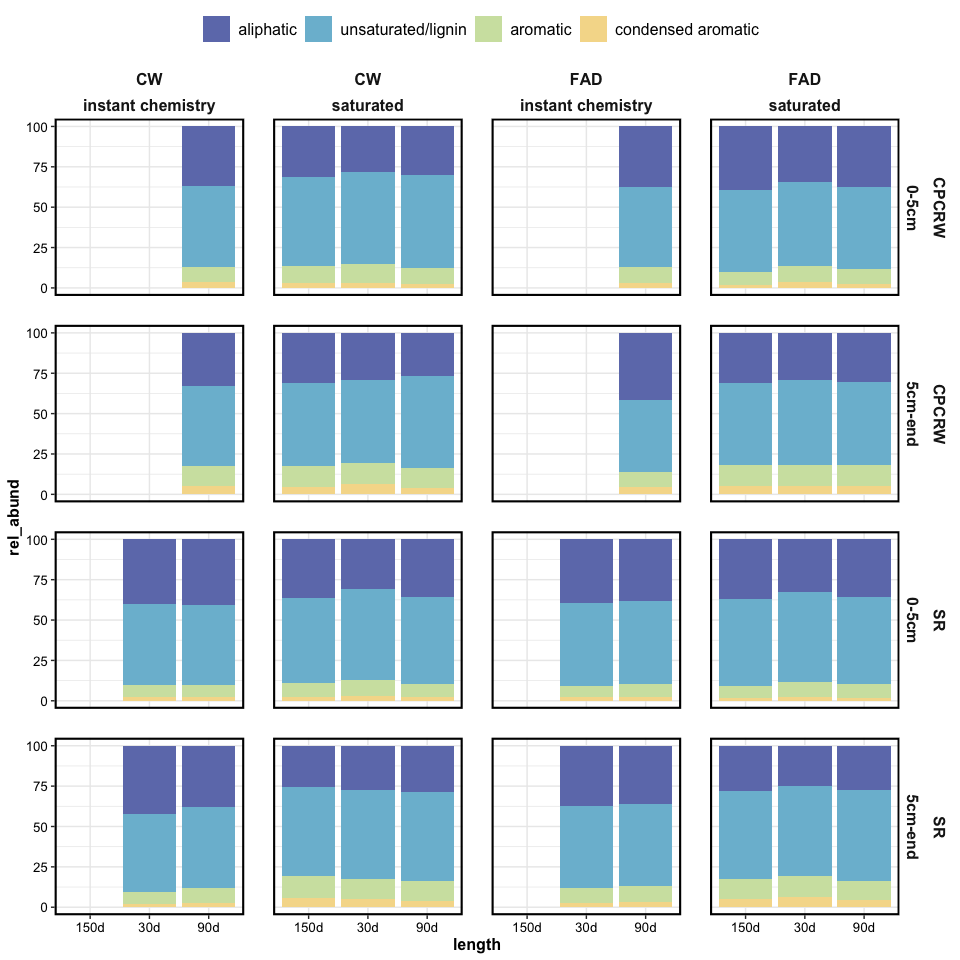
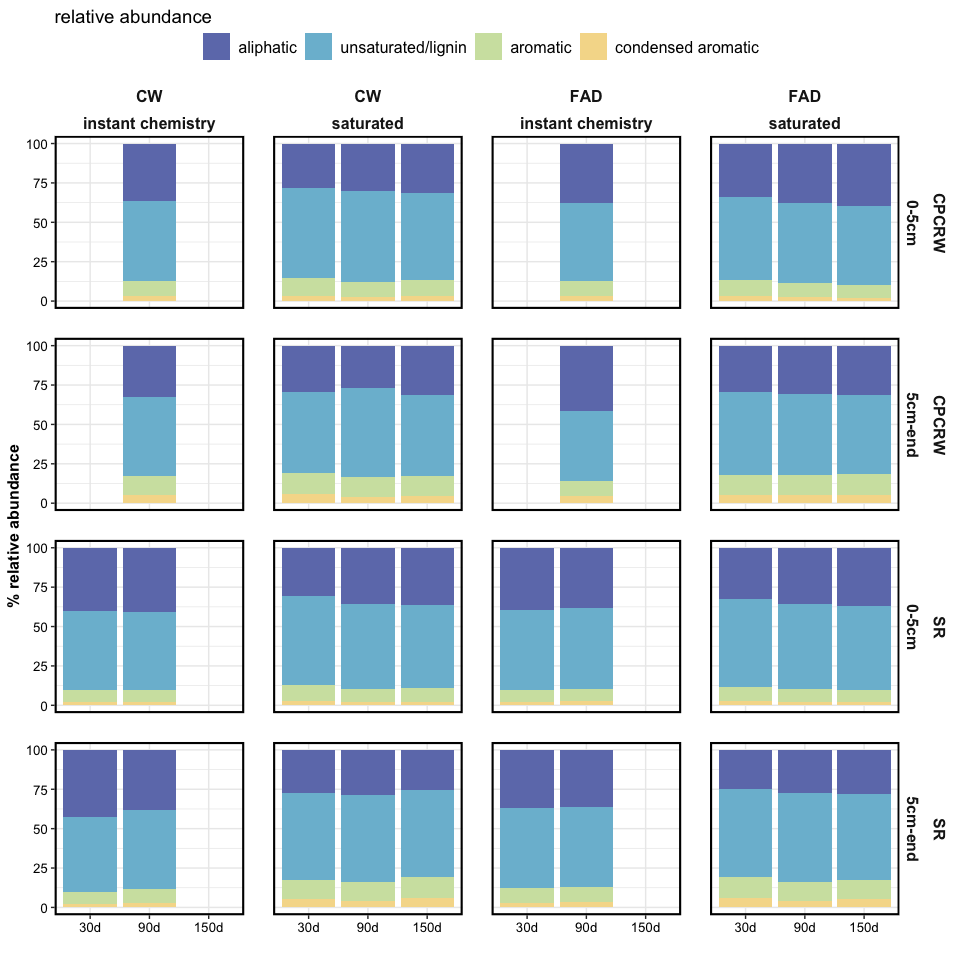
add tzero VK, PCA, perm, relabund

diff --git a/markdown/report_fticr.md b/markdown/report_fticr.md
@@ -3,6 +3,31 @@ FTICR
 
 This document contains results for FTICR-MS data.
 
+## TIME ZERO SAMPLES
+
+### Van Krevelen plots
+
+![](images-markdown-fticr/vk_tzero-1.png)<!-- -->
+
+### PCA
+
+![](images-markdown-fticr/pca_tzero-1.png)<!-- -->
+
+### PERMANOVA
+
+    #> # A tibble: 5 x 7
+    #>   term          df SumsOfSqs  MeanSqs F.Model     R2 p.value
+    #>   <chr>      <dbl>     <dbl>    <dbl>   <dbl>  <dbl>   <dbl>
+    #> 1 depth          1   0.00691  0.00691    4.24 0.241    0.026
+    #> 2 Site           1   0.00380  0.00380    2.33 0.132    0.109
+    #> 3 depth:Site     1   0.00172  0.00172    1.05 0.0598   0.376
+    #> 4 Residuals     10   0.0163   0.00163   NA    0.567   NA    
+    #> 5 Total         13   0.0287  NA         NA    1       NA
+
+### Relative abundance
+
+![](images-markdown-fticr/relabund_tzero-1.png)<!-- -->
+
 ## EXPLORATORY ANALYSIS
 
 ### Van Krevelen domains
@@ -62,20 +87,20 @@ This document contains results for FTICR-MS data.
     #> # A tibble: 17 x 7
     #>    term                 df SumsOfSqs   MeanSqs F.Model      R2 p.value
     #>    <chr>             <dbl>     <dbl>     <dbl>   <dbl>   <dbl>   <dbl>
-    #>  1 depth                 1   0.122    0.122     253.   0.275     0.001
-    #>  2 Site                  1   0.0151   0.0151     31.3  0.0341    0.001
-    #>  3 length                2   0.0110   0.00552    11.4  0.0249    0.001
-    #>  4 drying                1   0.0115   0.0115     23.8  0.0258    0.001
-    #>  5 saturation            1   0.126    0.126     261.   0.284     0.001
-    #>  6 depth:Site            1   0.00312  0.00312     6.46 0.00703   0.009
-    #>  7 depth:length          2   0.0133   0.00666    13.8  0.0300    0.001
-    #>  8 depth:drying          1   0.00769  0.00769    15.9  0.0173    0.001
-    #>  9 depth:saturation      1   0.0125   0.0125     26.0  0.0282    0.001
-    #> 10 Site:length           2   0.00541  0.00270     5.61 0.0122    0.004
-    #> 11 Site:drying           1   0.0260   0.0260     54.0  0.0588    0.001
-    #> 12 Site:saturation       1   0.00619  0.00619    12.8  0.0140    0.001
-    #> 13 length:drying         2   0.00410  0.00205     4.25 0.00925   0.013
-    #> 14 length:saturation     1   0.00677  0.00677    14.0  0.0153    0.001
-    #> 15 drying:saturation     1   0.00325  0.00325     6.75 0.00734   0.006
-    #> 16 Residuals           144   0.0694   0.000482   NA    0.157    NA    
-    #> 17 Total               163   0.443   NA          NA    1        NA
+    #>  1 depth                 1   0.0981   0.0981    179.   0.191     0.001
+    #>  2 Site                  1   0.0166   0.0166     30.4  0.0324    0.001
+    #>  3 length                3   0.0553   0.0184     33.7  0.108     0.001
+    #>  4 drying                1   0.0115   0.0115     21.0  0.0223    0.001
+    #>  5 saturation            1   0.125    0.125     228.   0.243     0.001
+    #>  6 depth:Site            1   0.00673  0.00673    12.3  0.0131    0.002
+    #>  7 depth:length          3   0.0425   0.0142     25.9  0.0828    0.001
+    #>  8 depth:drying          1   0.00770  0.00770    14.1  0.0150    0.001
+    #>  9 depth:saturation      1   0.0128   0.0128     23.4  0.0249    0.001
+    #> 10 Site:length           3   0.00627  0.00209     3.82 0.0122    0.005
+    #> 11 Site:drying           1   0.0260   0.0260     47.6  0.0507    0.001
+    #> 12 Site:saturation       1   0.00619  0.00619    11.3  0.0121    0.001
+    #> 13 length:drying         2   0.00410  0.00205     3.75 0.00798   0.019
+    #> 14 length:saturation     1   0.00677  0.00677    12.4  0.0132    0.001
+    #> 15 drying:saturation     1   0.00325  0.00325     5.94 0.00633   0.013
+    #> 16 Residuals           155   0.0848   0.000547   NA    0.165    NA    
+    #> 17 Total               177   0.514   NA          NA    1        NA
